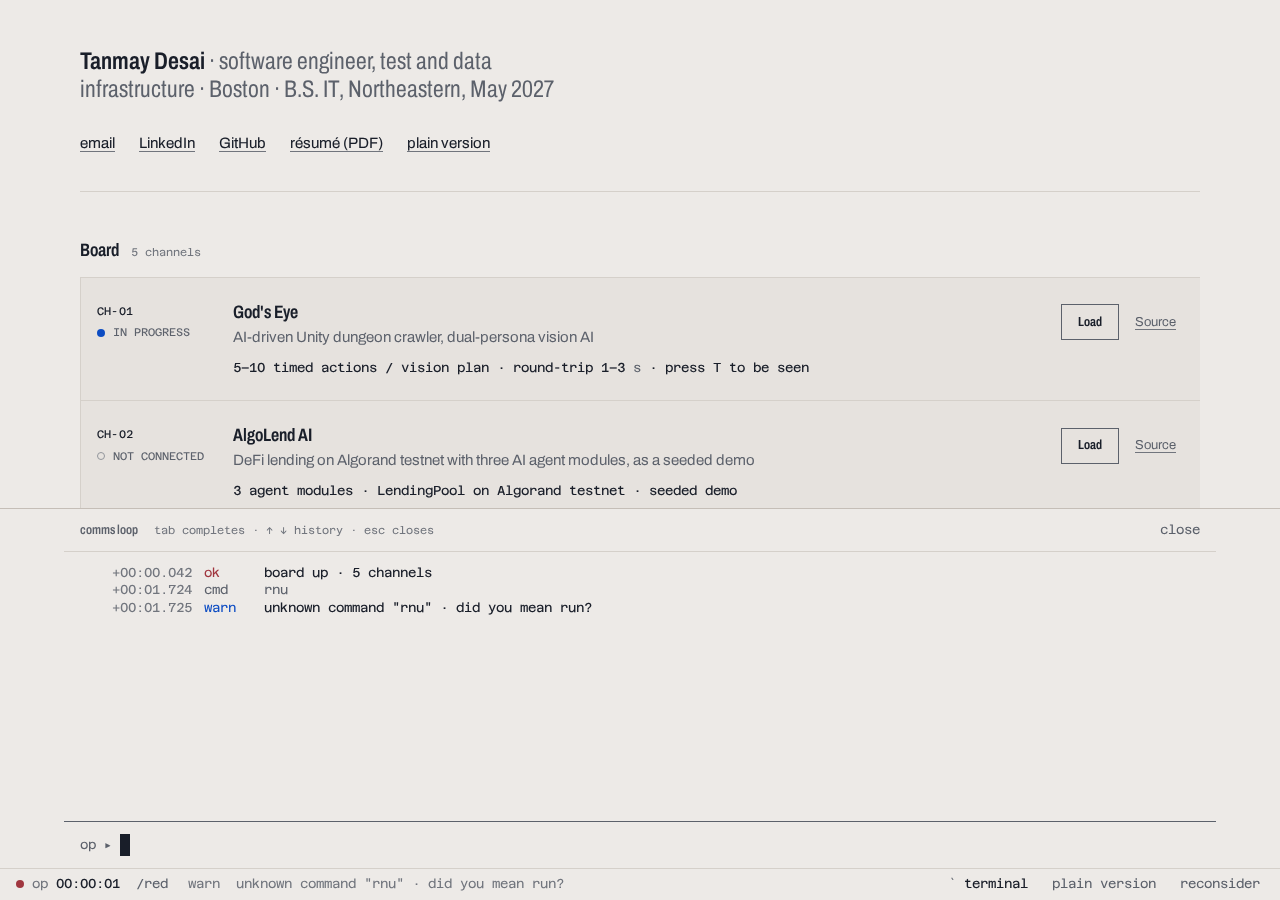
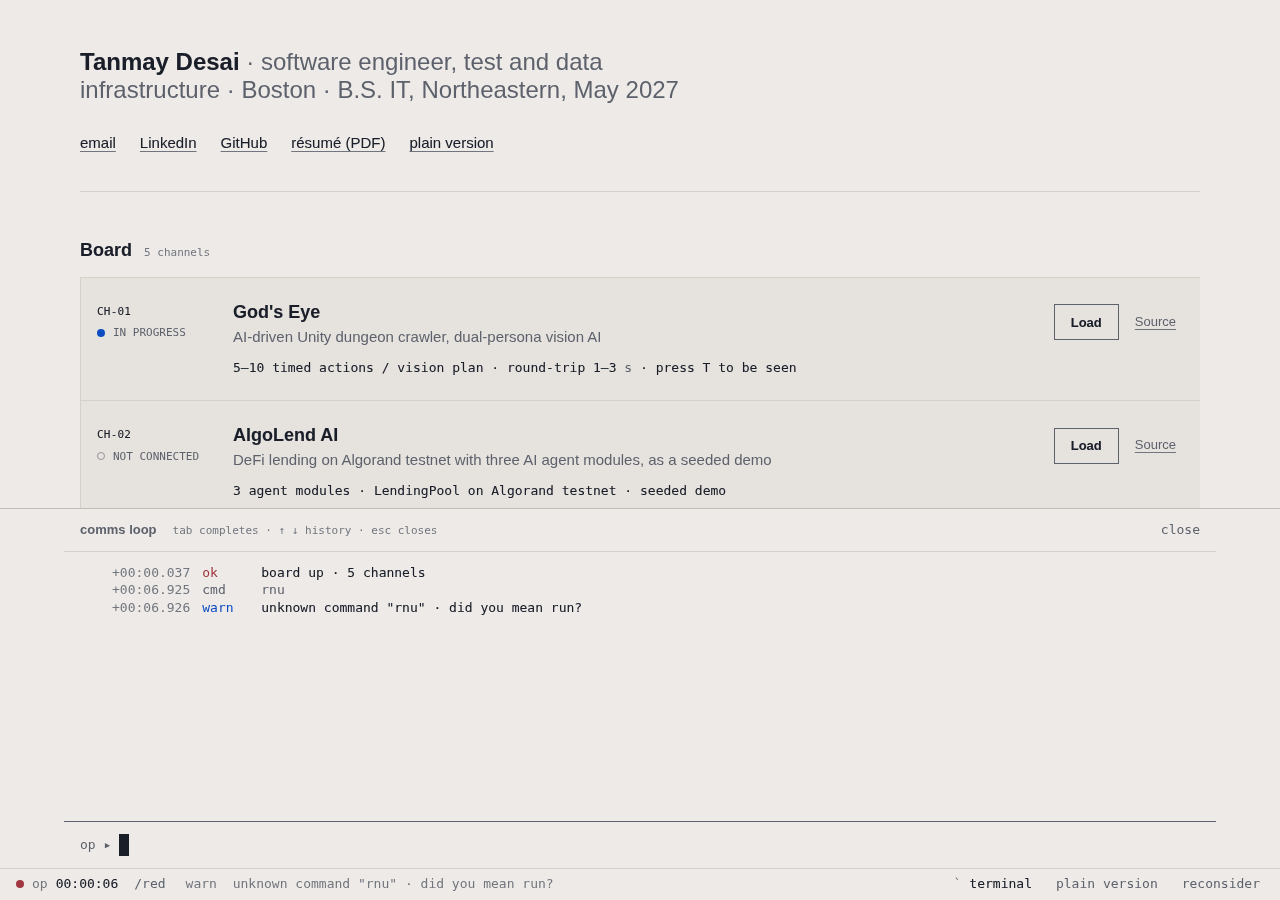
construct: C1 status line fits at 360/375 (clock hidden ≤400px, overflow guard); ready for merge
Claude-Session: https://claude.ai/code/session_01GKK88ZJrEzVc6W5F9hQVyW

diff --git a/construct/shell.css b/construct/shell.css
@@ -122,3 +122,5 @@ body.has-shell { padding-bottom: calc(var(--sl-h, 32px) + env(safe-area-inset-bo
   .print-note { display: block !important; position: static; margin: 0 0 12px; font: 12px var(--font-mono); color: #111; }
   body.has-shell { padding-bottom: 0; }
 }
+.sl { overflow: hidden; }
+@media (max-width: 400px) { .sl-clock { display: none; } }

diff --git a/.agents/handoff/construct.md b/.agents/handoff/construct.md
@@ -32,3 +32,4 @@ changes since construct-r1 critique:
 - also: backtick key glyph hidden ≤480px so `reconsider` never clips at 375
 tested: full suite (46 checks) + r2 checks: message line fresh/after déjà vu/opens terminal, bell caught mid-flash, 375 help with no clipped rows, console clean
 screenshots: .agents/critique/shots/construct-r2-{board-1280,board-375,msgline-fresh-1280,msgline-dejavu-1280,plate-not-connected-1280,bell-flash-1280,terminal-help-375}.png
+- C1 (construct-r2 conditional pass): `.sl { overflow: hidden }`, `.sl-clock` hidden ≤400px (lamp stays). The suite asserts every `.sl-btn` right edge ≤ innerWidth at 360 and 375, desktop and touch: all pass (reconsider ends at 344 / 359). board-375 re-shot with the status line visible

diff --git a/.agents/status/construct.md b/.agents/status/construct.md
@@ -1,6 +1,6 @@
 # construct
 
-status: in critique
+status: ready for merge
 branch: agent/construct
 updated: 2026-10-04
-note: round 2 handed off (.agents/handoff/construct.md): r1 critique F1–F4 + N1 fixed, real /shared/motion in use.
+note: construct-r2 conditional pass; C1 fixed. PR #7 ready for lead diff check.
